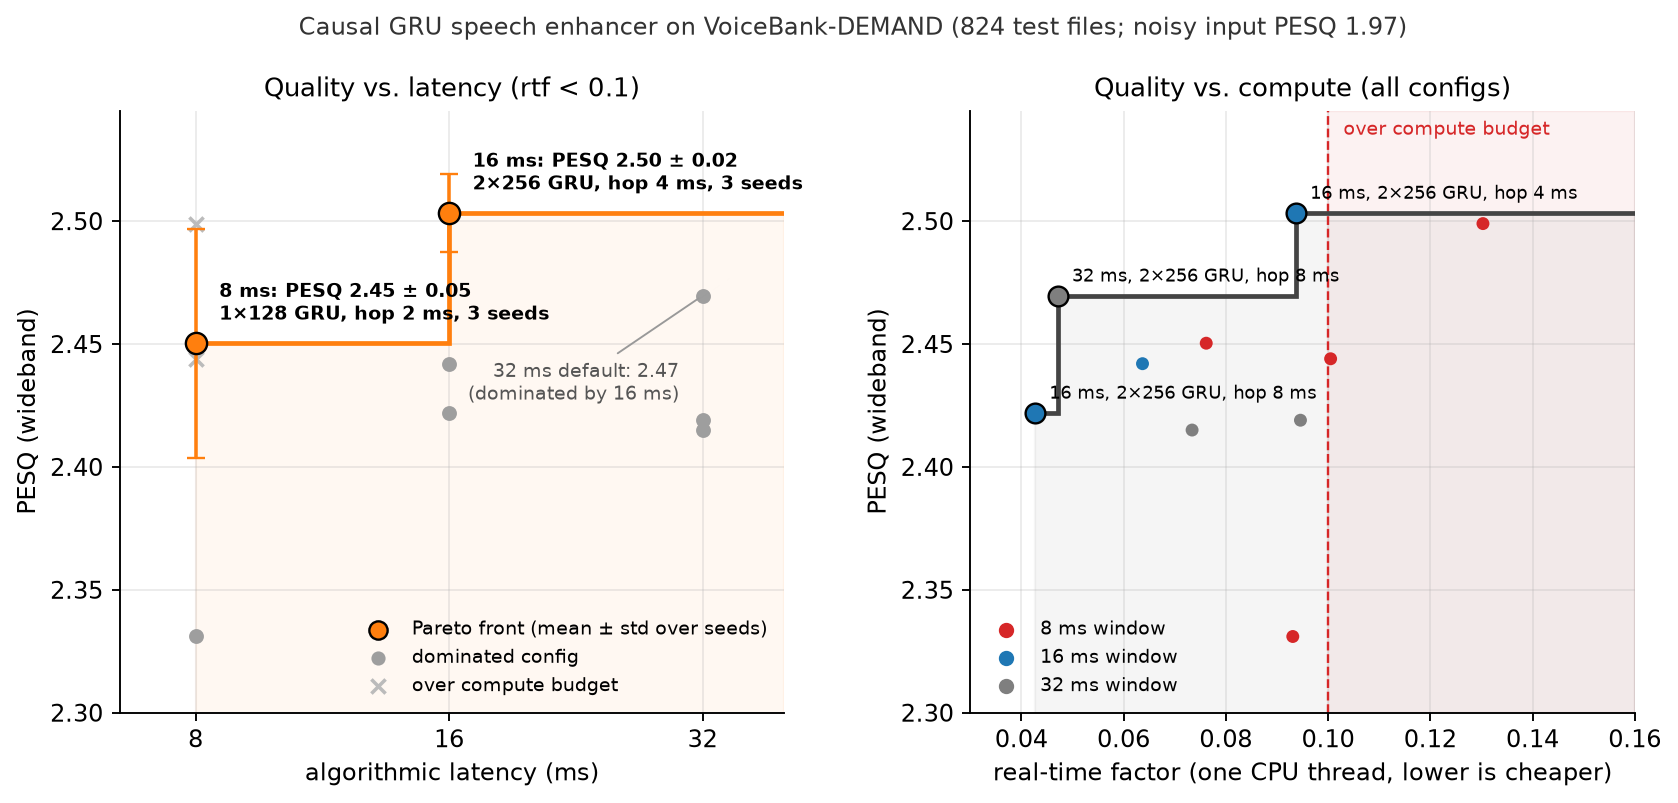
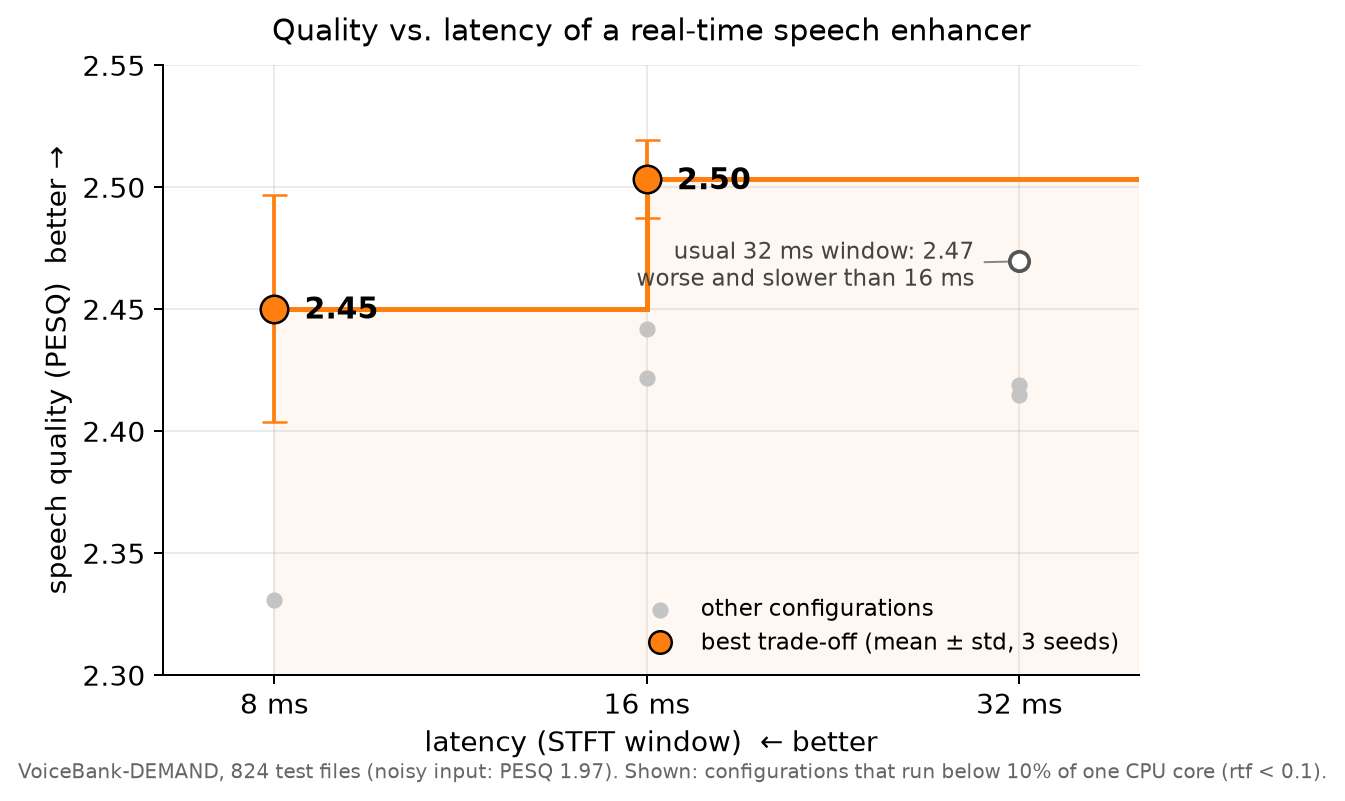
Simpler Pareto plot: one panel, quality vs latency

diff --git a/scripts/plot_pareto.py b/scripts/plot_pareto.py
@@ -1,10 +1,9 @@
-"""Pareto plots for the latency study, from results/latency/runs.csv.
+"""Pareto plot of the latency study (PESQ against latency), from results/latency/runs.csv.
 
     python scripts/plot_pareto.py
 
-Left: PESQ against algorithmic latency, among configs that meet the compute budget (rtf < 0.1).
-Right: PESQ against compute (rtf), all configs, coloured by latency.
-A config is on the front if no other config is at least as good on both axes and better on one.
+Only configs that meet the compute budget (rtf < 0.1) can be on the front. A config is on the
+front if no other config has lower or equal latency and higher or equal PESQ (and is better in one).
 """
 import csv
 from collections import defaultdict
@@ -64,75 +63,43 @@ def name(c):
 
 def main():
     configs = load_configs()
-    fig, (a, b) = plt.subplots(1, 2, figsize=(11.5, 4.6), gridspec_kw={"wspace": 0.28})
-    ylo, yhi = 2.30, 2.545
-
-    # ---- left: quality vs latency, compute budget met ----
     ok = [c for c in configs if c["rtf"] < RTF_BUDGET]
     pf = front(ok, "latency", "pesq")
-    staircase(a, pf, "latency", "pesq", 40, "#ff7f0e")
-    for c in configs:
-        on = c in pf
-        if c["rtf"] >= RTF_BUDGET:
-            a.scatter(c["latency"], c["pesq"], marker="x", s=36, color="#bbbbbb", zorder=3)
-            continue
-        if on:
-            a.errorbar(c["latency"], c["pesq"], yerr=c["std"], fmt="o", ms=9, color="#ff7f0e",
-                       mec="black", capsize=4, zorder=4)
-        else:
-            a.scatter(c["latency"], c["pesq"], s=28, color="#9e9e9e", zorder=3)
-    for c in pf:
-        a.annotate(f"{c['latency']:g} ms: PESQ {c['pesq']:.2f} ± {c['std']:.2f}\n{name(c)}, {c['seeds']} seeds",
-                   (c["latency"], c["pesq"]), xytext=(10, 10), textcoords="offset points", fontsize=8,
-                   weight="bold")
     ref = next(c for c in ok if c["latency"] == 32 and c["hop_ms"] == 8 and c["hidden"] == 256)
-    a.annotate(f"32 ms default: {ref['pesq']:.2f}\n(dominated by 16 ms)", (ref["latency"], ref["pesq"]),
-               xytext=(-10, -44), textcoords="offset points", fontsize=8, ha="right", color="#555555",
-               arrowprops={"arrowstyle": "-", "color": "#999999", "lw": 0.8})
-    a.set_xscale("log", base=2)
-    a.set_xticks([8, 16, 32], ["8", "16", "32"])
-    a.minorticks_off()
-    a.set_xlim(6.5, 40)
-    a.set_ylim(ylo, yhi)
-    a.set_xlabel("algorithmic latency (ms)")
-    a.set_ylabel("PESQ (wideband)")
-    a.set_title("Quality vs. latency (rtf < 0.1)", fontsize=11)
-    a.scatter([], [], marker="o", color="#ff7f0e", edgecolor="black", s=60, label="Pareto front (mean ± std over seeds)")
-    a.scatter([], [], marker="o", color="#9e9e9e", s=25, label="dominated config")
-    a.scatter([], [], marker="x", color="#bbbbbb", s=36, label="over compute budget")
-    a.legend(fontsize=8, loc="lower right", frameon=False)
 
-    # ---- right: quality vs compute, all configs ----
-    b.axvspan(RTF_BUDGET, 0.16, color="#d62728", alpha=0.06, zorder=0)
-    b.axvline(RTF_BUDGET, color="#d62728", ls="--", lw=1)
-    b.text(RTF_BUDGET + 0.003, yhi - 0.004, "over compute budget", fontsize=8, color="#d62728", va="top")
-    pf2 = front(configs, "rtf", "pesq")
-    staircase(b, pf2, "rtf", "pesq", 0.16, "#444444")
-    for c in configs:
-        on = c in pf2
-        b.scatter(c["rtf"], c["pesq"], s=70 if on else 30, color=COLORS[c["latency"]],
-                  edgecolor="black" if on else "none", zorder=3)
-    for c in pf2:
-        b.annotate(f"{c['latency']:g} ms, {name(c)}", (c["rtf"], c["pesq"]), xytext=(6, 6),
-                   textcoords="offset points", fontsize=7.5)
-    for lat, col in COLORS.items():
-        b.scatter([], [], color=col, s=30, label=f"{lat:g} ms window")
-    b.legend(fontsize=8, loc="lower left", frameon=False)
-    b.set_xlim(0.03, 0.16)
-    b.set_ylim(ylo, yhi)
-    b.set_xlabel("real-time factor (one CPU thread, lower is cheaper)")
-    b.set_ylabel("PESQ (wideband)")
-    b.set_title("Quality vs. compute (all configs)", fontsize=11)
-
-    for ax in (a, b):
-        ax.grid(alpha=0.25)
-        ax.spines[["top", "right"]].set_visible(False)
-    fig.suptitle(f"Causal GRU speech enhancer on VoiceBank-DEMAND (824 test files; noisy input PESQ {NOISY_PESQ})",
-                 fontsize=10, y=1.0, color="#333333")
-    fig.savefig(OUT, dpi=170, bbox_inches="tight")
-    print("saved", OUT.relative_to(ROOT))
-    print("front (latency):", [(c["latency"], round(c["pesq"], 3)) for c in pf])
-    print("front (compute):", [(c["latency"], round(c["rtf"], 3), round(c["pesq"], 3)) for c in pf2])
+    plt.rcParams.update({"font.size": 11})
+    fig, ax = plt.subplots(figsize=(7, 4.4))
+    staircase(ax, pf, "latency", "pesq", 40, "#ff7f0e")
+    others = [c for c in ok if c not in pf and c is not ref]
+    ax.scatter([c["latency"] for c in others], [c["pesq"] for c in others], s=30, color="#c4c4c4",
+               zorder=3, label="other configurations")
+    for c in pf:
+        ax.errorbar(c["latency"], c["pesq"], yerr=c["std"], fmt="o", ms=11, color="#ff7f0e",
+                    mec="black", capsize=5, zorder=4)
+        ax.annotate(f"{c['pesq']:.2f}", (c["latency"], c["pesq"]), xytext=(12, -4),
+                    textcoords="offset points", fontsize=12, weight="bold")
+    ax.scatter(ref["latency"], ref["pesq"], s=60, color="white", edgecolor="#555555", lw=1.5, zorder=4)
+    ax.annotate(f"usual 32 ms window: {ref['pesq']:.2f}\nworse and slower than 16 ms",
+                (ref["latency"], ref["pesq"]), xytext=(-18, -2), textcoords="offset points", va="center",
+                ha="right", fontsize=9, color="#444444",
+                arrowprops={"arrowstyle": "-", "color": "#888888", "lw": 0.8})
+    ax.errorbar([], [], yerr=[], fmt="o", ms=9, color="#ff7f0e", mec="black", capsize=4,
+                label="best trade-off (mean ± std, 3 seeds)")
+    ax.legend(fontsize=9, loc="lower right", frameon=False)
+    ax.set_xscale("log", base=2)
+    ax.set_xticks([8, 16, 32], ["8 ms", "16 ms", "32 ms"])
+    ax.minorticks_off()
+    ax.set_xlim(6.5, 40)
+    ax.set_ylim(2.30, 2.55)
+    ax.set_xlabel("latency (STFT window)  \u2190 better")
+    ax.set_ylabel("speech quality (PESQ)  better \u2192")
+    ax.set_title("Quality vs. latency of a real-time speech enhancer", fontsize=12, pad=10)
+    ax.grid(alpha=0.25)
+    ax.spines[["top", "right"]].set_visible(False)
+    fig.text(0.01, -0.02, f"VoiceBank-DEMAND, 824 test files (noisy input: PESQ {NOISY_PESQ}). "
+             "Shown: configurations that run below 10% of one CPU core (rtf < 0.1).", fontsize=8, color="#666666")
+    fig.savefig(OUT, dpi=180, bbox_inches="tight")
+    print("saved", OUT.relative_to(ROOT), "front:", [(c["latency"], round(c["pesq"], 3)) for c in pf])
 
 
 if __name__ == "__main__":

diff --git a/README.md b/README.md
@@ -13,9 +13,9 @@ Shrinking the window lowers latency but also frequency resolution, and smaller h
 
 ## Answer
 
-![Pareto fronts: PESQ vs latency and vs compute](results/latency/pareto.png)
+![Quality vs. latency: Pareto front](results/latency/pareto.png)
 
-*Left: configurations that meet the compute budget; the orange staircase is the Pareto front (no other configuration has both lower latency and higher PESQ). Right: the same configurations against compute, coloured by window length. Plot: `python scripts/plot_pareto.py`, from [runs.csv](results/latency/runs.csv).*
+*Each point is a model configuration that runs below 10% of one CPU core. The orange staircase is the Pareto front: no configuration has both lower latency and higher quality than the points on it. Plot: `python scripts/plot_pareto.py`, from [runs.csv](results/latency/runs.csv).*
 
 Best configuration per latency budget, with rtf < 0.1, 3 seeds each, on the full VoiceBank-DEMAND test set (824 files):
 
